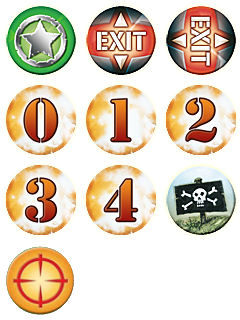
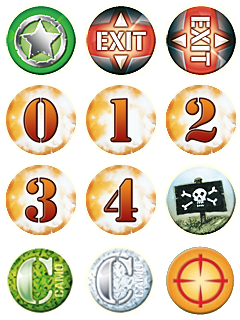
Big Gun UI + fixing tooltip when moving unit

Changed region(s): [[0.0292, 0.75, 0.3208, 1.0], [0.6708, 0.75, 0.9917, 1.0], [0.35, 0.75, 0.6417, 1.0]]

diff --git a/modules/js/Board.js b/modules/js/Board.js
@@ -21,6 +21,7 @@ define(['dojo', 'dojo/_base/declare'], (dojo, declare) => {
 
   const TOKEN_MEDAL = 1;
   const TOKEN_MINE = 2;
+  const TOKEN_ON_TOP = ['target'];
 
   function computeCoords(x, y) {
     // TODO : replace 9 by dim.y
@@ -130,11 +131,7 @@ define(['dojo', 'dojo/_base/declare'], (dojo, declare) => {
           }
 
           // Tokens/medals
-          board.grid[col][row].tokens.forEach((token) => {
-            let tplName = token.type == TOKEN_MEDAL ? 'tplBoardMedal' : 'tplBoardToken';
-            this.place(tplName, token, cellC);
-            this._grid[col][row].tokens.push(token);
-          });
+          board.grid[col][row].tokens.forEach((token) => this.addToken(token));
 
           // Add tooltip listeners
           cell.addEventListener('mouseenter', () => this.openBoardTooltip(col, row));
@@ -223,6 +220,42 @@ define(['dojo', 'dojo/_base/declare'], (dojo, declare) => {
     </li>`;
     },
 
+    tplBoardDivider() {
+      return '<li class="board-divider"></li>';
+    },
+
+    tplTileLabel(label) {
+      return `
+      <div class="hex-label-container" style="grid-area:${label.area}">
+        <div class="hex-label">${label.label}</div>
+      </div>`;
+    },
+
+    ////////////////////////////////////////////
+    //  _____                   _
+    // |_   _|__ _ __ _ __ __ _(_)_ __  ___
+    //   | |/ _ \ '__| '__/ _` | | '_ \/ __|
+    //   | |  __/ |  | | | (_| | | | | \__ \
+    //   |_|\___|_|  |_|  \__,_|_|_| |_|___/
+    ////////////////////////////////////////////
+
+    notif_addTerrain(n) {
+      debug('Notif: adding obstacle', n);
+      let terrain = n.args.terrain;
+      let cellC = $(`cell-background-${terrain.x}-${terrain.y}`);
+      terrain.rotate = this._isRotated;
+      this.place('tplObstacleTile', terrain, cellC);
+      this._grid[terrain.x][terrain.y].terrains.push(terrain);
+    },
+
+    notif_removeTerrain(n) {
+      debug('Notif: removing obstacle', n);
+      $('obstacle-' + n.args.terrainId).remove();
+      let x = n.args.cell.x,
+        y = n.args.cell.y;
+      this._grid[x][y].terrains = this._grid[x][y].terrains.filter((terrain) => terrain.id != n.args.terrainId);
+    },
+
     tplTerrainTile(terrain) {
       let className = '';
       let tile = TERRAINS.findIndex((t) => t == terrain.tile);
@@ -254,15 +287,28 @@ define(['dojo', 'dojo/_base/declare'], (dojo, declare) => {
       return `<div id="obstacle-${obstacle.id}" class="hex-grid-content hex-grid-obstacle" data-tile="${tile}" data-rotation="${rotation}"></div>`;
     },
 
-    tplBoardDivider() {
-      return '<li class="board-divider"></li>';
+    ////////////////////////////////////////
+    //  _____     _
+    // |_   _|__ | | _____ _ __  ___
+    //   | |/ _ \| |/ / _ \ '_ \/ __|
+    //   | | (_) |   <  __/ | | \__ \
+    //   |_|\___/|_|\_\___|_| |_|___/
+    ////////////////////////////////////////
+
+    addToken(token) {
+      let tplName = token.type == TOKEN_MEDAL ? 'tplBoardMedal' : 'tplBoardToken';
+      let onTop = TOKEN_ON_TOP.includes(token.sprite);
+      let container = `cell${onTop ? '' : '-background'}-${token.x}-${token.y}`;
+      this.place(tplName, token, container);
+      this._grid[token.x][token.y].tokens.push(token);
     },
 
-    tplTileLabel(label) {
-      return `
-      <div class="hex-label-container" style="grid-area:${label.area}">
-        <div class="hex-label">${label.label}</div>
-      </div>`;
+    tplBoardToken(token) {
+      // prettier-ignore
+      const SPRITES = ['star', 'exitV', 'exitH', 'mine0', 'mine1', 'mine2', 'mine3', 'mine4', 'mineX', 'camo', 'wcamo', 'target'];
+      let sprite = SPRITES.findIndex((t) => t == token.sprite);
+
+      return `<div id='board-token-${token.id}' class="board-token" data-sprite="${sprite}"></div>`;
     },
 
     tplBoardMedal(medal) {
@@ -274,29 +320,16 @@ define(['dojo', 'dojo/_base/declare'], (dojo, declare) => {
         data-team="${medal.team}" data-sprite="${sprite}" data-permanent="${medal.datas.permanent}"></div>`;
     },
 
-    notif_addTerrain(n) {
-      debug('Notif: adding obstacle', n);
-      let terrain = n.args.terrain;
-      let cellC = $(`cell-background-${terrain.x}-${terrain.y}`);
-      terrain.rotate = this._isRotated;
-      this.place('tplObstacleTile', terrain, cellC);
-      this._grid[terrain.x][terrain.y].terrains.push(terrain);
+    notif_addToken(n) {
+      debug('Notif: a token is added on the board', n);
+      this.addToken(n.args.token);
     },
 
-    notif_removeTerrain(n) {
-      debug('Notif: removing obstacle', n);
-      $('obstacle-' + n.args.terrainId).remove();
-      let x = n.args.cell.x,
-        y = n.args.cell.y;
-      this._grid[x][y].terrains = this._grid[x][y].terrains.filter((terrain) => terrain.id != n.args.terrainId);
-    },
-
-    notif_addToken(token) {
-      debug('Notif: a token is added on the board', token);
-    },
-
-    notif_removeToken(token) {
-      debug('Notif: a token is removed from the board', token);
+    notif_removeToken(n) {
+      debug('Notif: a token is removed from the board', n);
+      let token = n.args.token;
+      $(`board-token-${token.id}`).remove();
+      this._grid[token.x][token.y].tokens = this._grid[token.x][token.y].tokens.filter((t) => t.id != token.id);
     },
 
     ////////////////////////////////////////

diff --git a/memoir.css b/memoir.css
@@ -3494,4 +3494,59 @@ span.m44-dice-result {
       #popin_showScenario #popin_showScenario_contents #scenario-bottom-container #scenario-brief {
         border-right: 2px solid #9e0a0f; }
 
+.board-token {
+  background-image: url("img/tokens.png");
+  background-size: 300% 400%; }
+  .board-token[data-sprite='0'] {
+    background-position-x: 0%;
+    background-position-y: 0%; }
+  .board-token[data-sprite='1'] {
+    background-position-x: 50%;
+    background-position-y: 0%; }
+  .board-token[data-sprite='2'] {
+    background-position-x: 100%;
+    background-position-y: 0%; }
+  .board-token[data-sprite='3'] {
+    background-position-x: 0%;
+    background-position-y: 33.3333333333%; }
+  .board-token[data-sprite='4'] {
+    background-position-x: 50%;
+    background-position-y: 33.3333333333%; }
+  .board-token[data-sprite='5'] {
+    background-position-x: 100%;
+    background-position-y: 33.3333333333%; }
+  .board-token[data-sprite='6'] {
+    background-position-x: 0%;
+    background-position-y: 66.6666666667%; }
+  .board-token[data-sprite='7'] {
+    background-position-x: 50%;
+    background-position-y: 66.6666666667%; }
+  .board-token[data-sprite='8'] {
+    background-position-x: 100%;
+    background-position-y: 66.6666666667%; }
+  .board-token[data-sprite='9'] {
+    background-position-x: 0%;
+    background-position-y: 100%; }
+  .board-token[data-sprite='10'] {
+    background-position-x: 50%;
+    background-position-y: 100%; }
+  .board-token[data-sprite='11'] {
+    background-position-x: 100%;
+    background-position-y: 100%; }
+  .board-token[data-sprite='12'] {
+    background-position-x: 0%;
+    background-position-y: 133.3333333333%; }
+
+.hex-grid-item .board-token {
+  width: 42.8%;
+  height: 37%;
+  position: absolute;
+  right: 4%;
+  top: 16%;
+  z-index: 3; }
+  .hex-grid-item .board-token[data-sprite='11'] {
+    right: 33%;
+    top: 32%;
+    pointer-events: none; }
+
 /*# sourceMappingURL=memoir.css.map */

diff --git a/modules/css/tokens.scss b/modules/css/tokens.scss
@@ -1,0 +1,27 @@
+.board-token {
+  background-image: url('img/tokens.png');
+  background-size: 300% 400%;
+
+  @for $i from 0 through 12 {
+    &[data-sprite='#{$i}'] {
+      background-position-x: ($i % 3) * 100% / 2;
+      background-position-y: (($i - ($i % 3)) / 3) * 100% / 3;
+    }
+  }
+}
+
+.hex-grid-item .board-token {
+  width: 42.8%;
+  height: 37%;
+  position: absolute;
+  right: 4%;
+  top: 16%;
+  z-index: 3;
+
+  // Target
+  &[data-sprite='11'] {
+    right: 33%;
+    top: 32%;
+    pointer-events: none;
+  }
+}

diff --git a/modules/js/States/OrderUnits.js b/modules/js/States/OrderUnits.js
@@ -142,6 +142,8 @@ define(['dojo', 'dojo/_base/declare'], (dojo, declare) => {
       this.clearPossible();
       $('unit-' + n.args.unitId).classList.add('moving');
       this.slide('unit-' + n.args.unitId, `cell-${n.args.x}-${n.args.y}`, { duration: 580, preserveSize: true });
+      this._grid[n.args.x][n.args.y].unit = this._grid[n.args.fromX][n.args.fromY].unit;
+      this._grid[n.args.fromX][n.args.fromY].unit = null;
     },
 
     //////////////////////////////////////////

diff --git a/memoir.scss b/memoir.scss
@@ -67,3 +67,4 @@
 @import 'modules/css/flip';
 @import 'modules/css/explosion';
 @import 'modules/css/modals.scss';
+@import 'modules/css/tokens.scss';

diff --git a/modules/php/Units/BigGun.php b/modules/php/Units/BigGun.php
@@ -15,32 +15,31 @@ class BigGun extends Artillery
     $this->maxTarget = 3;
   }
 
+  protected function getTokens($cell = null)
+  {
+    return Tokens::getOnCoords('target_' . $this->id, $cell);
+  }
+
   public function getAttackModifier($target)
   {
-    return (int) Tokens::getOnCoords('target', $target)->count() != 0;
+    return $this->getTokens($target)->empty() ? 0 : 1;
   }
 
   public function afterAttack($coords, $hits, $eliminated)
   {
-    if ($hits == 0 || $eliminated) {
-      return;
-    }
-    if (Tokens::getOnCoords('target', null)->count() >= $this->maxTarget) {
+    if ($hits == 0 || $eliminated || $this->getTokens()->count() >= $this->maxTarget) {
       return;
     }
 
-    if (Tokens::getOnCoords('target', $coords)->count() == 0) {
-      $token = [
-        [
-          'x' => $coords['x'],
-          'y' => $coords['y'],
-          'location' => 'target',
-          'sprite' => 'target',
-          'type' => 0,
-        ],
-      ];
-      $created = Tokens::create($token);
-      Notifications::addToken(Tokens::get($created));
+    if ($this->getTokens($coords)->count() == 0) {
+      $token = Tokens::singleCreate([
+        'x' => $coords['x'],
+        'y' => $coords['y'],
+        'location' => 'target_' . $this->id,
+        'sprite' => 'target',
+        'type' => \TOKEN_TARGET,
+      ]);
+      Notifications::addToken($token);
     }
   }
 

diff --git a/modules/php/Managers/Tokens.php b/modules/php/Managers/Tokens.php
@@ -37,9 +37,7 @@ class Tokens extends \M44\Helpers\Pieces
 
   public static function addCoordsClause(&$q, $coords)
   {
-    $q = $q->where('x', $coords['x']);
-    $q = $q->where('y', $coords['y']);
-
+    $q = $q->where('x', $coords['x'])->where('y', $coords['y']);
     return $q;
   }
 
@@ -170,7 +168,12 @@ class Tokens extends \M44\Helpers\Pieces
 
   public function removeTargets($coords)
   {
-    $tokens = self::getOnCoords('target', $coords);
+    $tokens = self::getSelectQuery()
+      ->where('x', $coords['x'])
+      ->where('y', $coords['y'])
+      ->where('type', \TOKEN_TARGET)
+      ->get();
+
     foreach ($tokens as $t) {
       self::DB()->delete($t['id']);
       Notifications::removeToken($t);

diff --git a/modules/php/Terrains/SupplyDepot.php b/modules/php/Terrains/SupplyDepot.php
@@ -16,7 +16,6 @@ class SupplyDepot extends \M44\Models\Terrain
     $this->desc = [
       clienttranslate('No movement restriction'),
       clienttranslate('No combat restriction'),
-      clienttranslate('Block line of sight'),
     ];
 
     $this->isBlockingLineOfSight = true;

diff --git a/modules/php/Core/Notifications.php b/modules/php/Core/Notifications.php
@@ -127,6 +127,8 @@ class Notifications
         'coordTarget' => $coordTarget,
         'x' => $coordTarget['x'],
         'y' => $coordTarget['y'],
+        'fromX' => $coordSource['x'],
+        'fromY' => $coordSource['y'],
       ]
     );
   }

diff --git a/modules/php/Dice.php b/modules/php/Dice.php
@@ -18,7 +18,7 @@ class Dice
     }
 
     // debug
-    // $results = [DICE_STAR, DICE_STAR, DICE_STAR, DICE_STAR];
+//    $results = [\DICE_INFANTRY];
 
     Notifications::rollDice($player, $nDice, $results, $cell);
 

diff --git a/modules/php/constants.inc.php b/modules/php/constants.inc.php
@@ -154,6 +154,7 @@ const MEDAL_SUDDEN_DEATH = 3;
 
 const TOKEN_MEDAL = 1;
 const TOKEN_MINE = 2;
+const TOKEN_TARGET = 3;
 
 /*
  * Terrains
